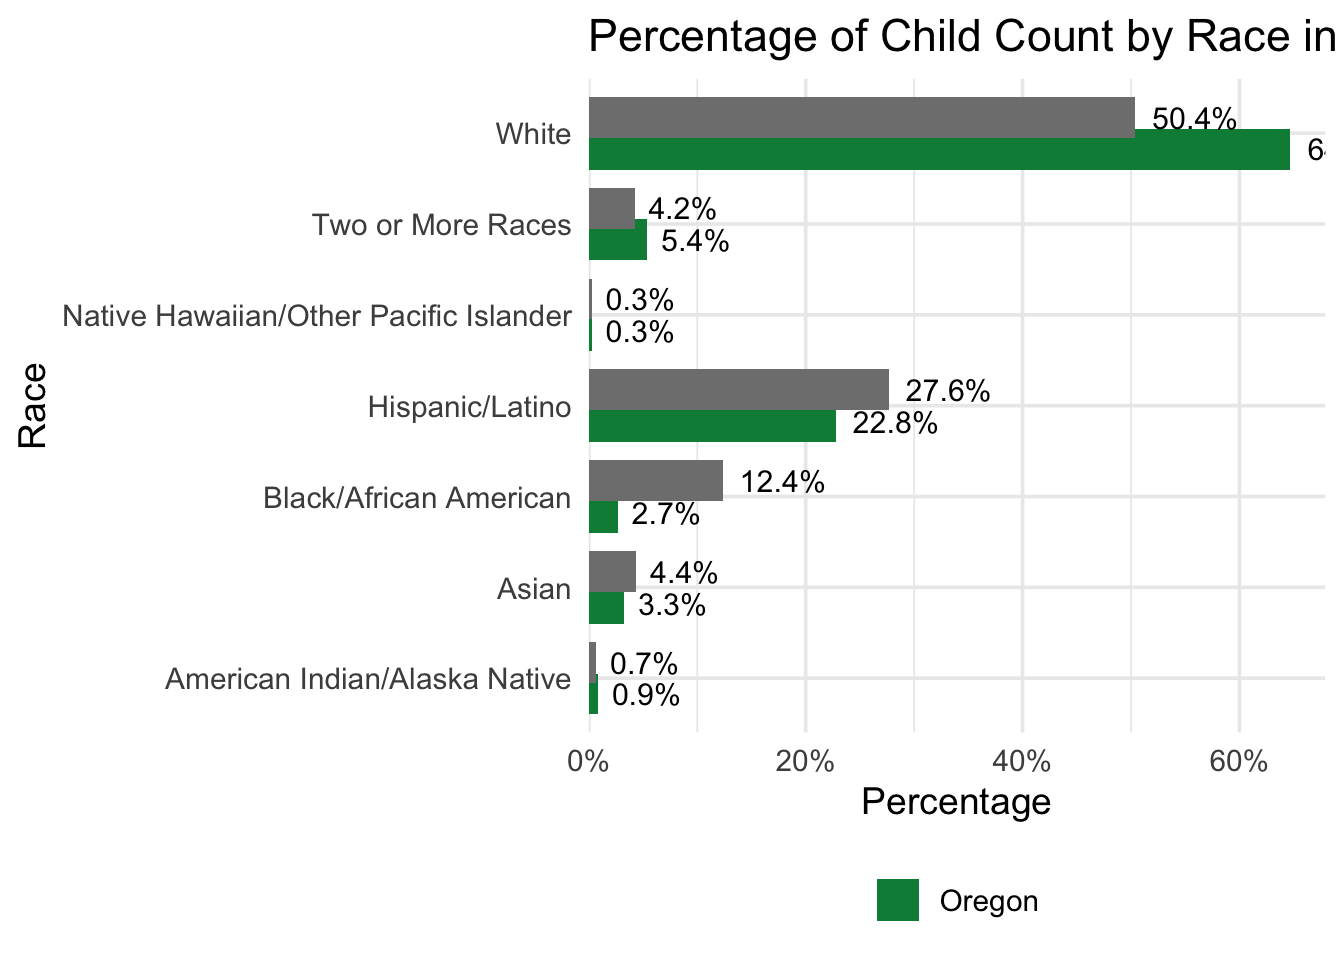
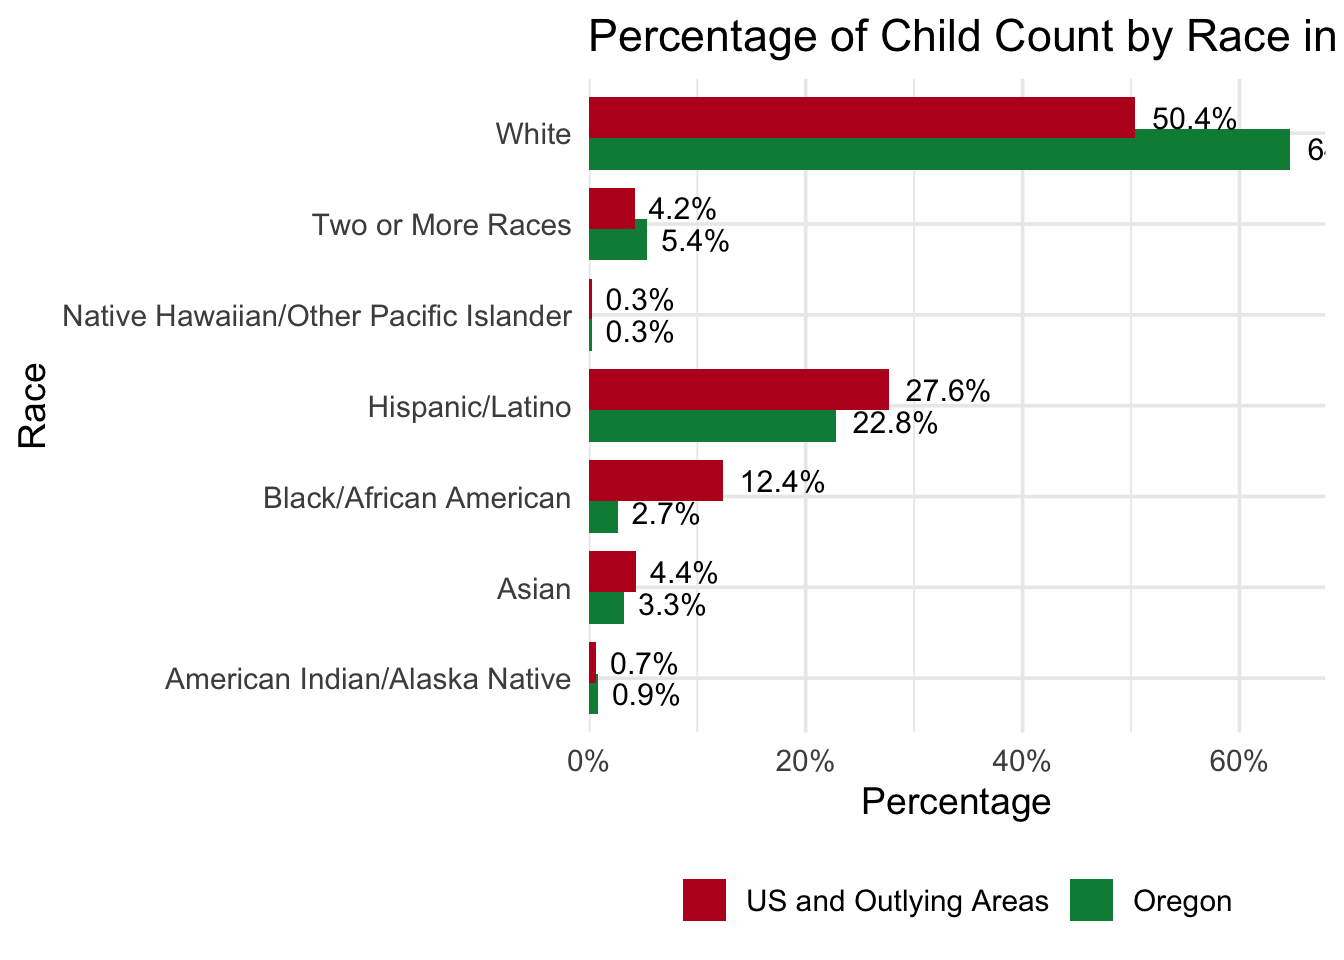
Cleaning up

diff --git a/docs/index.html b/docs/index.html
@@ -200,46 +200,7 @@ window.Quarto = {
 
 <div class="quarto-listing quarto-listing-container-default" id="listing-listing">
 <div class="list quarto-listing-default">
-<div class="quarto-post image-right" data-index="0" data-categories="dmlzdWFsaXphdGlvbiUyQ2NvZGUlMkNhbmFseXNpcw==" data-listing-date-sort="1740729600000" data-listing-file-modified-sort="1741032827170" data-listing-date-modified-sort="NaN" data-listing-reading-time-sort="2" data-listing-word-count-sort="314">
-<div class="thumbnail">
-<p><a href="./posts/viz_1/index.html" class="no-external"></a></p><a href="./posts/viz_1/index.html" class="no-external">
-<p><img loading="lazy" src="./posts/viz_1/kable.jpg" class="thumbnail-image"></p>
-</a><p><a href="./posts/viz_1/index.html" class="no-external"></a></p>
-</div>
-<div class="body">
-<h3 class="no-anchor listing-title">
-<a href="./posts/viz_1/index.html" class="no-external">Visualization 1: kable()</a>
-</h3>
-<div class="listing-subtitle">
-<a href="./posts/viz_1/index.html" class="no-external"></a>
-</div>
-<div class="listing-categories">
-<div class="listing-category" onclick="window.quartoListingCategory('dmlzdWFsaXphdGlvbg=='); return false;">
-visualization
-</div>
-<div class="listing-category" onclick="window.quartoListingCategory('Y29kZQ=='); return false;">
-code
-</div>
-<div class="listing-category" onclick="window.quartoListingCategory('YW5hbHlzaXM='); return false;">
-analysis
-</div>
-</div>
-<div class="listing-description">
-<a href="./posts/viz_1/index.html" class="no-external">This is the first step in my visualization journey. I created a simple kable table using data from the Office of Special Education Programs (OSEP).</a>
-</div>
-</div>
-<div class="metadata">
-<a href="./posts/viz_1/index.html" class="no-external">
-<div class="listing-date">
-Feb 28, 2025
-</div>
-<div class="listing-author">
-Maiko Hata
-</div>
-</a>
-</div>
-</div>
-<div class="quarto-post image-right" data-index="1" data-categories="dmlzdWFsaXphdGlvbiUyQ2NvZGUlMkNhbmFseXNpcw==" data-listing-date-sort="1740729600000" data-listing-file-modified-sort="1740958868547" data-listing-date-modified-sort="NaN" data-listing-reading-time-sort="4" data-listing-word-count-sort="632">
+<div class="quarto-post image-right" data-index="0" data-categories="dmlzdWFsaXphdGlvbiUyQ2NvZGUlMkNhbmFseXNpcw==" data-listing-date-sort="1740902400000" data-listing-file-modified-sort="1741047929466" data-listing-date-modified-sort="NaN" data-listing-reading-time-sort="4" data-listing-word-count-sort="632">
 <div class="thumbnail">
 <p><a href="./posts/viz_3/index.html" class="no-external"></a></p><a href="./posts/viz_3/index.html" class="no-external">
 <p><img loading="lazy" src="./posts/viz_3/race and exit corrplot.png" class="thumbnail-image"></p>
@@ -270,7 +231,7 @@ analysis
 <div class="metadata">
 <a href="./posts/viz_3/index.html" class="no-external">
 <div class="listing-date">
-Feb 28, 2025
+Mar 2, 2025
 </div>
 <div class="listing-author">
 Maiko Hata
@@ -278,7 +239,7 @@ Maiko Hata
 </a>
 </div>
 </div>
-<div class="quarto-post image-right" data-index="2" data-categories="ZGF0YSUyMHZpc3VhbGl6YXRpb24lMkNjb2RlJTJDYW5hbHlzaXM=" data-listing-date-sort="1740729600000" data-listing-file-modified-sort="1740959948900" data-listing-date-modified-sort="NaN" data-listing-reading-time-sort="6" data-listing-word-count-sort="1164">
+<div class="quarto-post image-right" data-index="1" data-categories="ZGF0YSUyMHZpc3VhbGl6YXRpb24lMkNjb2RlJTJDYW5hbHlzaXM=" data-listing-date-sort="1740902400000" data-listing-file-modified-sort="1741047887561" data-listing-date-modified-sort="NaN" data-listing-reading-time-sort="6" data-listing-word-count-sort="1164">
 <div class="thumbnail">
 <p><a href="./posts/viz_4/index.html" class="no-external"></a></p><a href="./posts/viz_4/index.html" class="no-external">
 <p><img loading="lazy" src="./posts/viz_4/or_us_white_ci_timesnewroman.png" class="thumbnail-image"></p>
@@ -309,7 +270,7 @@ analysis
 <div class="metadata">
 <a href="./posts/viz_4/index.html" class="no-external">
 <div class="listing-date">
-Feb 28, 2025
+Mar 2, 2025
 </div>
 <div class="listing-author">
 Maiko Hata
@@ -317,7 +278,7 @@ Maiko Hata
 </a>
 </div>
 </div>
-<div class="quarto-post image-right" data-index="3" data-categories="dmlzdWFsaXphdGlvbiUyQ2NvZGUlMkNhbmFseXNpcw==" data-listing-date-sort="1740729600000" data-listing-file-modified-sort="1740952061733" data-listing-date-modified-sort="NaN" data-listing-reading-time-sort="6" data-listing-word-count-sort="1194">
+<div class="quarto-post image-right" data-index="2" data-categories="dmlzdWFsaXphdGlvbiUyQ2NvZGUlMkNhbmFseXNpcw==" data-listing-date-sort="1740729600000" data-listing-file-modified-sort="1741048099483" data-listing-date-modified-sort="NaN" data-listing-reading-time-sort="7" data-listing-word-count-sort="1203">
 <div class="thumbnail">
 <p><a href="./posts/viz_2/index.html" class="no-external"></a></p><a href="./posts/viz_2/index.html" class="no-external">
 <p><img loading="lazy" src="./posts/viz_2/ggplot_geom_bar_cc.png" class="thumbnail-image"></p>
@@ -356,7 +317,46 @@ Maiko Hata
 </a>
 </div>
 </div>
-<div class="quarto-post image-right" data-index="4" data-categories="bmV3cw==" data-listing-date-sort="1740470400000" data-listing-file-modified-sort="1740959995934" data-listing-date-modified-sort="NaN" data-listing-reading-time-sort="1" data-listing-word-count-sort="108">
+<div class="quarto-post image-right" data-index="3" data-categories="dmlzdWFsaXphdGlvbiUyQ2NvZGUlMkNhbmFseXNpcw==" data-listing-date-sort="1740556800000" data-listing-file-modified-sort="1741047861565" data-listing-date-modified-sort="NaN" data-listing-reading-time-sort="2" data-listing-word-count-sort="314">
+<div class="thumbnail">
+<p><a href="./posts/viz_1/index.html" class="no-external"></a></p><a href="./posts/viz_1/index.html" class="no-external">
+<p><img loading="lazy" src="./posts/viz_1/kable.jpg" class="thumbnail-image"></p>
+</a><p><a href="./posts/viz_1/index.html" class="no-external"></a></p>
+</div>
+<div class="body">
+<h3 class="no-anchor listing-title">
+<a href="./posts/viz_1/index.html" class="no-external">Visualization 1: kable()</a>
+</h3>
+<div class="listing-subtitle">
+<a href="./posts/viz_1/index.html" class="no-external"></a>
+</div>
+<div class="listing-categories">
+<div class="listing-category" onclick="window.quartoListingCategory('dmlzdWFsaXphdGlvbg=='); return false;">
+visualization
+</div>
+<div class="listing-category" onclick="window.quartoListingCategory('Y29kZQ=='); return false;">
+code
+</div>
+<div class="listing-category" onclick="window.quartoListingCategory('YW5hbHlzaXM='); return false;">
+analysis
+</div>
+</div>
+<div class="listing-description">
+<a href="./posts/viz_1/index.html" class="no-external">This is the first step in my visualization journey. I created a simple kable table using data from the Office of Special Education Programs (OSEP).</a>
+</div>
+</div>
+<div class="metadata">
+<a href="./posts/viz_1/index.html" class="no-external">
+<div class="listing-date">
+Feb 26, 2025
+</div>
+<div class="listing-author">
+Maiko Hata
+</div>
+</a>
+</div>
+</div>
+<div class="quarto-post image-right" data-index="4" data-categories="bmV3cw==" data-listing-date-sort="1740470400000" data-listing-file-modified-sort="1741035264851" data-listing-date-modified-sort="NaN" data-listing-reading-time-sort="1" data-listing-word-count-sort="108">
 <div class="thumbnail">
 <p><a href="./posts/welcome/index.html" class="no-external"></a></p><a href="./posts/welcome/index.html" class="no-external">
 <p class="card-img-top"><img src="images/uo.jpg" alt="University of Oregon sign with flowers"  class="thumbnail-image card-img"/></p>

diff --git a/docs/posts/viz_2/index.html b/docs/posts/viz_2/index.html
@@ -294,13 +294,11 @@ pre > code.sourceCode > span > a:first-child::before { text-decoration: underlin
 </div>
 </div>
 <p>After making adjustments to show the data more clearly and accurately, here it is—the final version that shows the data best! Flipping the X and Y axes helps readers understand the categories more easily, and the data labels make it clearer to see the exact differences between the national data and Oregon’s data. I also used the Okabe-Ito color palette, assigning specific colors for both the national data and Oregon’s data to maintain consistency in future visualizations.</p>
-<section id="help-why-does-it-not-flip-alphabetically-on-y-axis-and-why-does-it-now-show-the-us-average" class="level2">
-<h2 class="anchored" data-anchor-id="help-why-does-it-not-flip-alphabetically-on-y-axis-and-why-does-it-now-show-the-us-average">HELP: Why does it not flip alphabetically on Y axis, and WHY does it now show the “US average”</h2>
 <div class="cell">
 <details class="code-fold">
 <summary>Code</summary>
 <div class="sourceCode cell-code" id="cb5"><pre class="sourceCode r code-with-copy"><code class="sourceCode r"><span id="cb5-1"><a href="#cb5-1" aria-hidden="true" tabindex="-1"></a>okabe_ito_colors <span class="ot">&lt;-</span> <span class="fu">c</span>(</span>
-<span id="cb5-2"><a href="#cb5-2" aria-hidden="true" tabindex="-1"></a>  <span class="st">"US"</span> <span class="ot">=</span> <span class="fu">pal_aaas</span>(<span class="st">"default"</span>)(<span class="dv">10</span>)[<span class="dv">6</span>],      </span>
+<span id="cb5-2"><a href="#cb5-2" aria-hidden="true" tabindex="-1"></a>  <span class="st">"US and Outlying Areas"</span> <span class="ot">=</span> <span class="fu">pal_aaas</span>(<span class="st">"default"</span>)(<span class="dv">10</span>)[<span class="dv">6</span>],      </span>
 <span id="cb5-3"><a href="#cb5-3" aria-hidden="true" tabindex="-1"></a>  <span class="st">"Oregon"</span> <span class="ot">=</span> <span class="fu">pal_aaas</span>(<span class="st">"default"</span>)(<span class="dv">10</span>)[<span class="dv">3</span>])  </span>
 <span id="cb5-4"><a href="#cb5-4" aria-hidden="true" tabindex="-1"></a></span>
 <span id="cb5-5"><a href="#cb5-5" aria-hidden="true" tabindex="-1"></a><span class="fu">ggplot</span>(childcount1920USOR_long, </span>
@@ -312,8 +310,8 @@ pre > code.sourceCode > span > a:first-child::before { text-decoration: underlin
 <span id="cb5-11"><a href="#cb5-11" aria-hidden="true" tabindex="-1"></a>          <span class="at">width =</span> <span class="fl">0.7</span>)) <span class="sc">+</span>  </span>
 <span id="cb5-12"><a href="#cb5-12" aria-hidden="true" tabindex="-1"></a>  <span class="fu">scale_fill_manual</span>(</span>
 <span id="cb5-13"><a href="#cb5-13" aria-hidden="true" tabindex="-1"></a>    <span class="at">values =</span> okabe_ito_colors, </span>
-<span id="cb5-14"><a href="#cb5-14" aria-hidden="true" tabindex="-1"></a>    <span class="at">breaks =</span> <span class="fu">c</span>(<span class="st">"US"</span>, <span class="st">"Oregon"</span>),         </span>
-<span id="cb5-15"><a href="#cb5-15" aria-hidden="true" tabindex="-1"></a>    <span class="at">labels =</span> <span class="fu">c</span>(<span class="st">"US"</span>, <span class="st">"Oregon"</span>)          </span>
+<span id="cb5-14"><a href="#cb5-14" aria-hidden="true" tabindex="-1"></a>    <span class="at">breaks =</span> <span class="fu">c</span>(<span class="st">"US and Outlying Areas"</span>, <span class="st">"Oregon"</span>),         </span>
+<span id="cb5-15"><a href="#cb5-15" aria-hidden="true" tabindex="-1"></a>    <span class="at">labels =</span> <span class="fu">c</span>(<span class="st">"US and Outlying Areas"</span>, <span class="st">"Oregon"</span>)          </span>
 <span id="cb5-16"><a href="#cb5-16" aria-hidden="true" tabindex="-1"></a>  ) <span class="sc">+</span></span>
 <span id="cb5-17"><a href="#cb5-17" aria-hidden="true" tabindex="-1"></a>  <span class="fu">scale_x_continuous</span>(</span>
 <span id="cb5-18"><a href="#cb5-18" aria-hidden="true" tabindex="-1"></a>    <span class="at">labels =</span> <span class="fu">percent_format</span>(<span class="at">scale =</span> <span class="dv">1</span>), </span>
@@ -344,7 +342,6 @@ pre > code.sourceCode > span > a:first-child::before { text-decoration: underlin
 </div>
 
 
-</section>
 
 </main> <!-- /main -->
 <script id="quarto-html-after-body" type="application/javascript">

diff --git a/docs/posts/viz_1/index.html b/docs/posts/viz_1/index.html
@@ -7,7 +7,7 @@
 <meta name="viewport" content="width=device-width, initial-scale=1.0, user-scalable=yes">
 
 <meta name="author" content="Maiko Hata">
-<meta name="dcterms.date" content="2025-02-28">
+<meta name="dcterms.date" content="2025-02-26">
 
 <title>Visualization 1: kable() – Maiko’s blog</title>
 <style>
@@ -168,7 +168,7 @@ pre > code.sourceCode > span > a:first-child::before { text-decoration: underlin
       <div>
       <div class="quarto-title-meta-heading">Published</div>
       <div class="quarto-title-meta-contents">
-        <p class="date">February 28, 2025</p>
+        <p class="date">February 26, 2025</p>
       </div>
     </div>
     
@@ -187,6 +187,8 @@ pre > code.sourceCode > span > a:first-child::before { text-decoration: underlin
 
 
 
+<section id="did-we-fix-it" class="level1">
+<h1>Did we fix it?</h1>
 <p>This is the first step in my visualization journey. I created a simple kable table using data from the Office of Special Education Programs (<a href="https://data.ed.gov/dataset/idea-section-618-data-products-static-tables-part-c">OSEP</a>).</p>
 <p>To give some background, my dissertation will focus on equitable access to Early Intervention (EI) for different groups. Some of the visualizations in this blog will be adjusted to allow for stronger statistical analysis, such as by incorporating census data.</p>
 <p>Here’s what my dataset looked like after I finished wrangling the data:</p>
@@ -210,8 +212,6 @@ pre > code.sourceCode > span > a:first-child::before { text-decoration: underlin
 </div>
 </div>
 <p>This may look like a simple visualization, but it took a lot of work to clean up the data to get here! I used many functions for data wrangling, including: <code>filter()</code>, <code>select()</code>, <code>mutate()</code>, <code>bind_rows()</code>, <code>mutate()</code>, <code>group_by()</code>, <code>pivot_longer()</code>, <code>pivot_wider()</code>, and <code>summarize()</code>. Just a few months ago, I was completely new to R, RStudio, and GitHub.</p>
-<section id="i-want-to-make-the-header-bold.-also-the-headers-should-be-centered" class="level1">
-<h1>I WANT TO MAKE THE HEADER BOLD. Also the headers should be centered</h1>
 <div class="cell">
 <details class="code-fold">
 <summary>Code</summary>

diff --git a/docs/posts/viz_4/index.html b/docs/posts/viz_4/index.html
@@ -7,7 +7,7 @@
 <meta name="viewport" content="width=device-width, initial-scale=1.0, user-scalable=yes">
 
 <meta name="author" content="Maiko Hata">
-<meta name="dcterms.date" content="2025-02-28">
+<meta name="dcterms.date" content="2025-03-02">
 
 <title>Visualization 4: oddsratio() – Maiko’s blog</title>
 <style>
@@ -166,7 +166,7 @@ pre > code.sourceCode > span > a:first-child::before { text-decoration: underlin
       <div>
       <div class="quarto-title-meta-heading">Published</div>
       <div class="quarto-title-meta-contents">
-        <p class="date">February 28, 2025</p>
+        <p class="date">March 2, 2025</p>
       </div>
     </div>
     

diff --git a/docs/posts/viz_3/index.html b/docs/posts/viz_3/index.html
@@ -7,7 +7,7 @@
 <meta name="viewport" content="width=device-width, initial-scale=1.0, user-scalable=yes">
 
 <meta name="author" content="Maiko Hata">
-<meta name="dcterms.date" content="2025-02-28">
+<meta name="dcterms.date" content="2025-03-02">
 
 <title>Visualization 3: corrplot() – Maiko’s blog</title>
 <style>
@@ -166,7 +166,7 @@ pre > code.sourceCode > span > a:first-child::before { text-decoration: underlin
       <div>
       <div class="quarto-title-meta-heading">Published</div>
       <div class="quarto-title-meta-contents">
-        <p class="date">February 28, 2025</p>
+        <p class="date">March 2, 2025</p>
       </div>
     </div>
     
